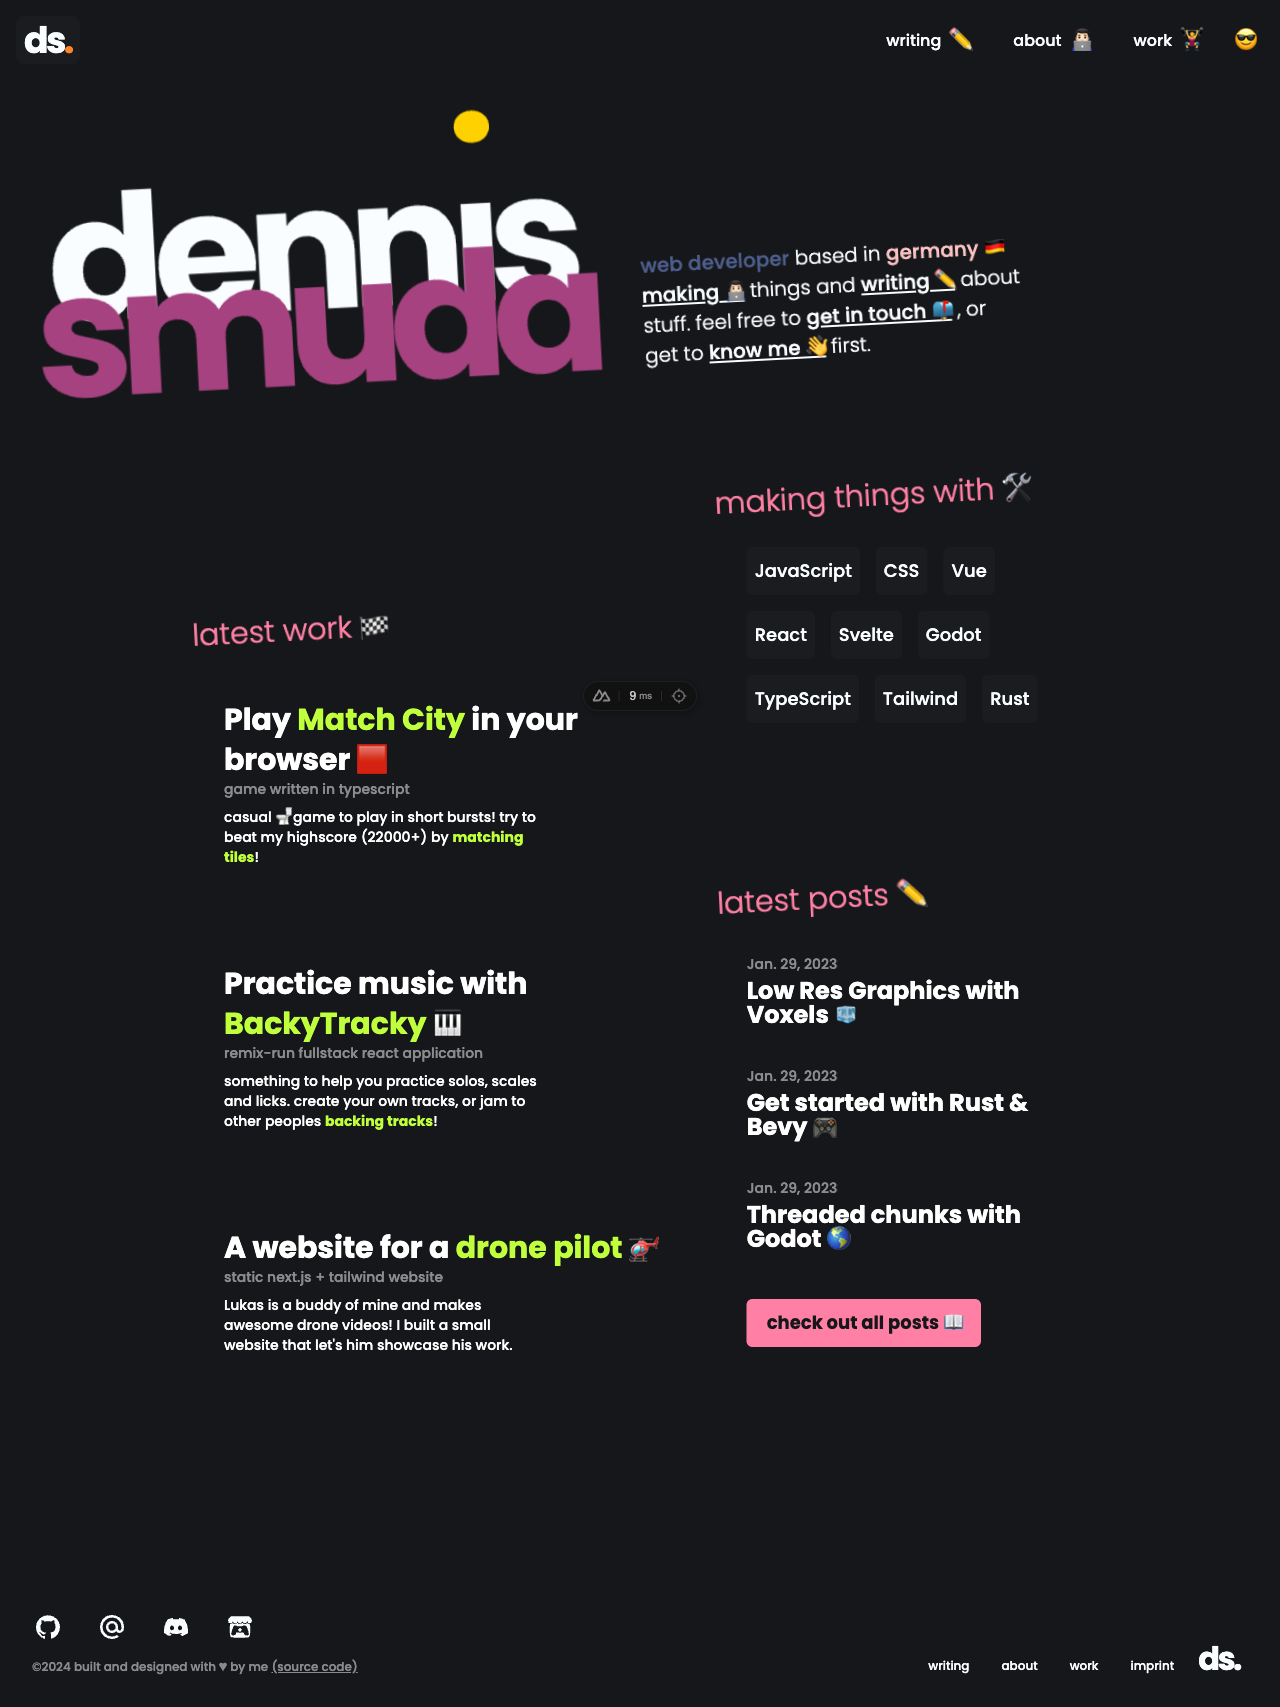
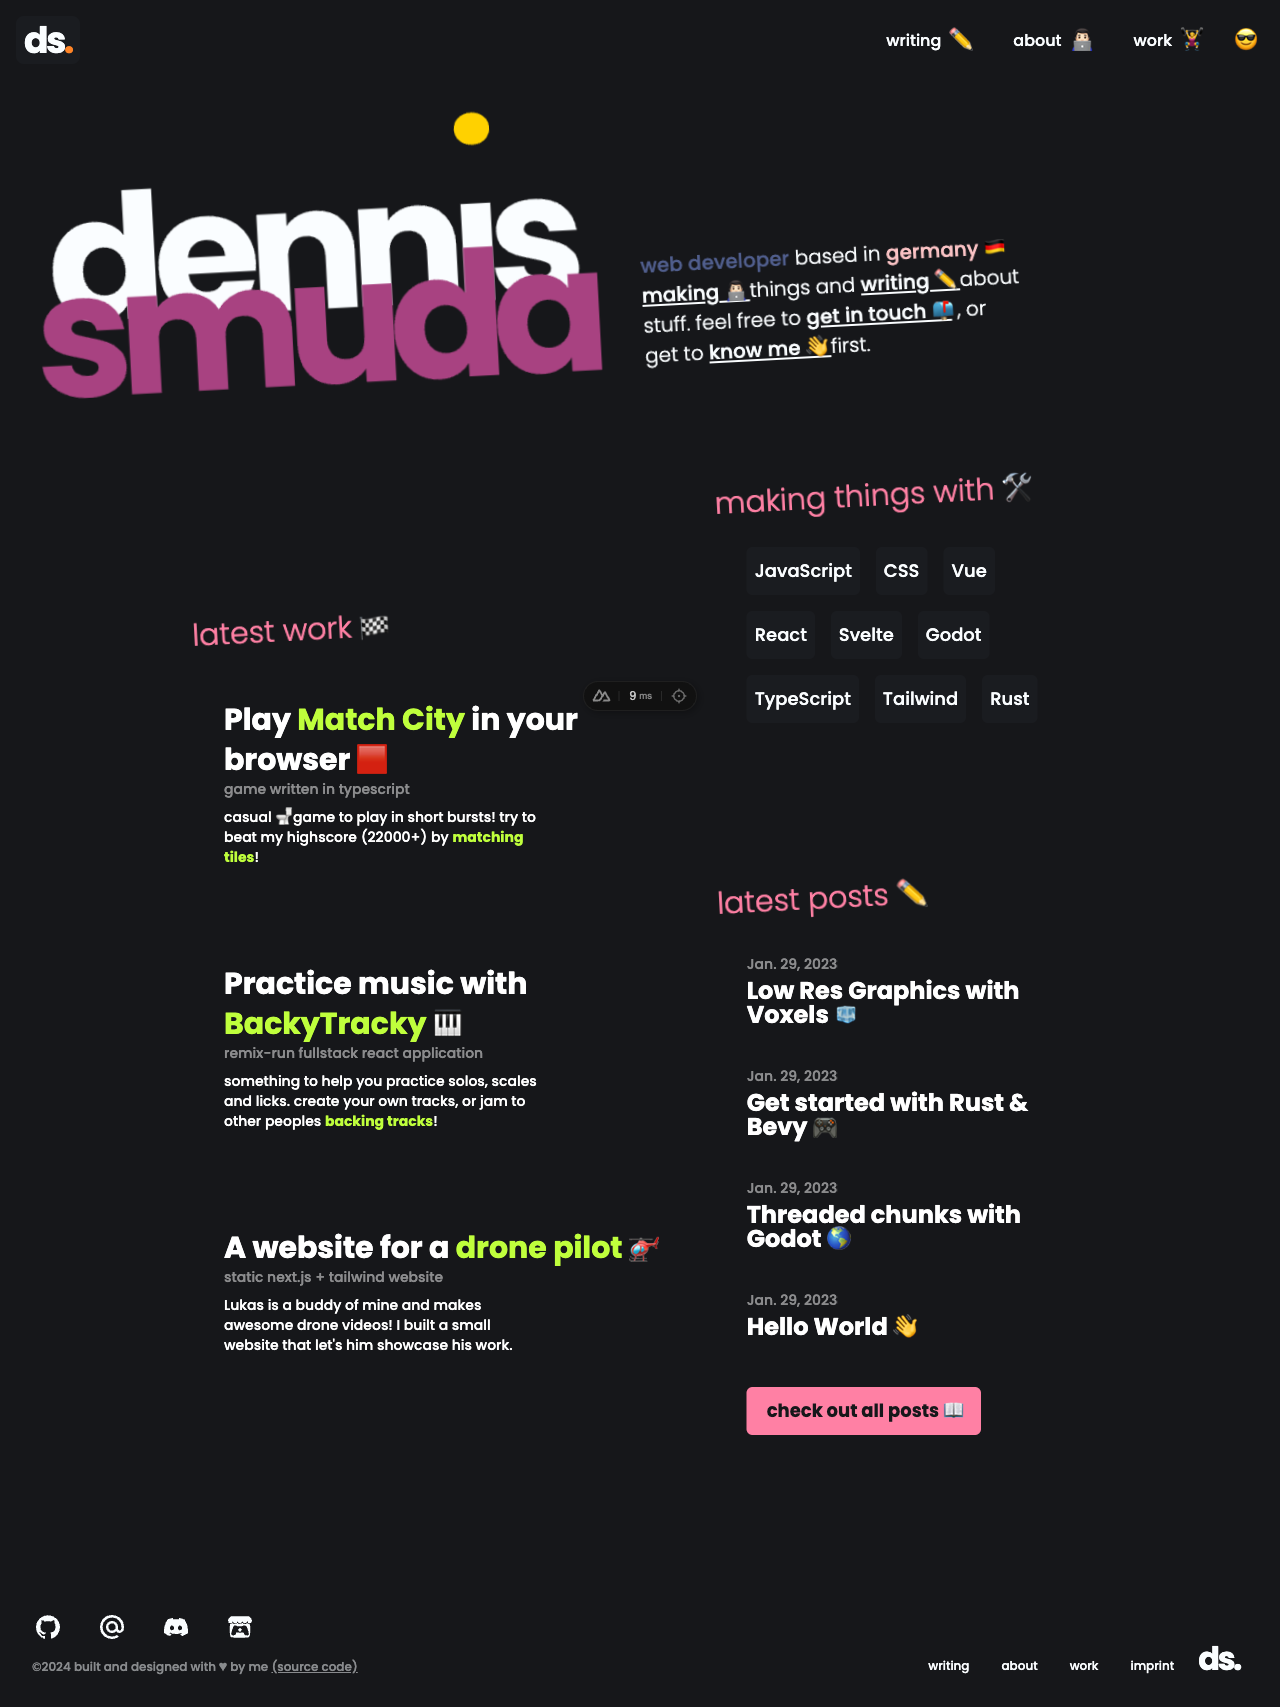
chore: SEO stuffs

Changed region(s): [[0.5625, 0.7452, 0.7812, 0.8383], [0.75, 0.1552, 0.7812, 0.1863], [0.3438, 0.0621, 0.375, 0.0931]]

diff --git a/pages/work.vue b/pages/work.vue
@@ -1,4 +1,11 @@
 <script setup lang="ts">
+useSeoMeta({
+  title: 'Work | Dennis Smuda',
+  ogTitle: 'Work | Dennis Smuda',
+  description: 'All of my past projects! Feel free to check out my work and reach out if you have any questions!',
+  ogDescription: 'All of my past projects! Feel free to check out my work and reach out if you have any questions!',
+})
+
 const { data } = await useAsyncData(
   'projects',
   () => queryContent('projects').sort({ createdAt: 1 }).find(),

diff --git a/pages/blog.vue b/pages/blog.vue
@@ -1,4 +1,11 @@
 <script setup lang="ts">
+useSeoMeta({
+  title: 'Writing | Dennis Smuda',
+  ogTitle: 'Writing | Dennis Smuda',
+  description: 'My blog, where I write mostly about stuff I\'ve learned on my journey.',
+  ogDescription: 'My blog, where I write mostly about stuff I\'ve learned on my journey.',
+})
+
 const { data, pending } = await useAsyncData(
   'blog',
   () => queryContent('blog').sort({ createdAt: 1 }).find(),

diff --git a/pages/about.vue b/pages/about.vue
@@ -1,5 +1,12 @@
 <script setup lang="ts">
 import About from '~/features/about/About.vue'
+
+useSeoMeta({
+  title: 'About Me | Dennis Smuda',
+  ogTitle: 'About Me | Dennis Smuda',
+  description: 'Nice to meet you! This page tells you a little bit about myself, and what I\'m doing.',
+  ogDescription: 'Nice to meet you! This page tells you a little bit about myself, and what I\'m doing.',
+})
 </script>
 
 <template>

diff --git a/features/shared/PageTitle.vue b/features/shared/PageTitle.vue
@@ -7,7 +7,7 @@ defineProps<{
 
 <template>
   <div class="container mx-auto px-6 md:px-8 pt-16 md:pb-4">
-    <div class="-rotate-3 flex flex-col sm:flex-row md:items-end relative md:-inset-x-4">
+    <div class="-rotate-3 flex flex-col lg:flex-row lg:items-end relative md:-inset-x-4">
       <h1 class="main-heading color-change">
         {{ title }}
       </h1>

diff --git a/pages/[...slug].vue b/pages/[...slug].vue
@@ -1,5 +1,9 @@
 <script setup lang="ts">
 const isActive = useState('activeBlogPostId')
+
+const { data: page } = await useAsyncData('my-page', queryContent('/').findOne)
+
+useContentHead(page)
 </script>
 
 <template>

diff --git a/features/home/FeaturedPosts.vue b/features/home/FeaturedPosts.vue
@@ -1,5 +1,5 @@
 <script setup lang="ts">
-const { data, error, pending } = useFetch('/api/blog?limit=3')
+const { data } = useFetch('/api/blog?limit=4')
 const isActive = useState('activeBlogPostId')
 </script>
 
